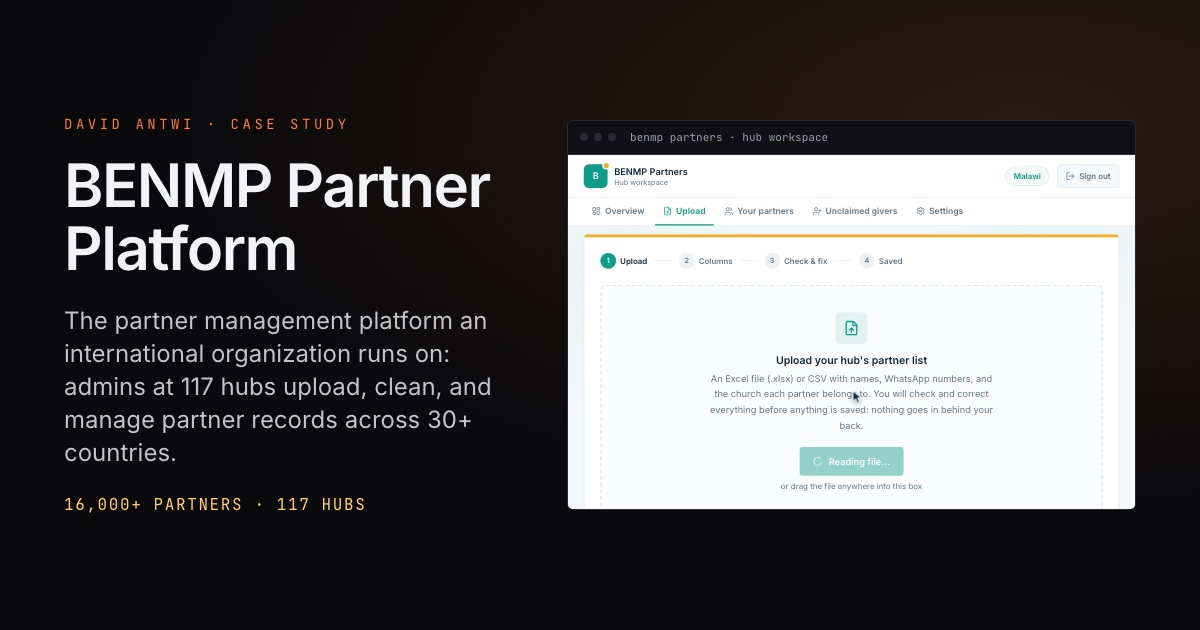
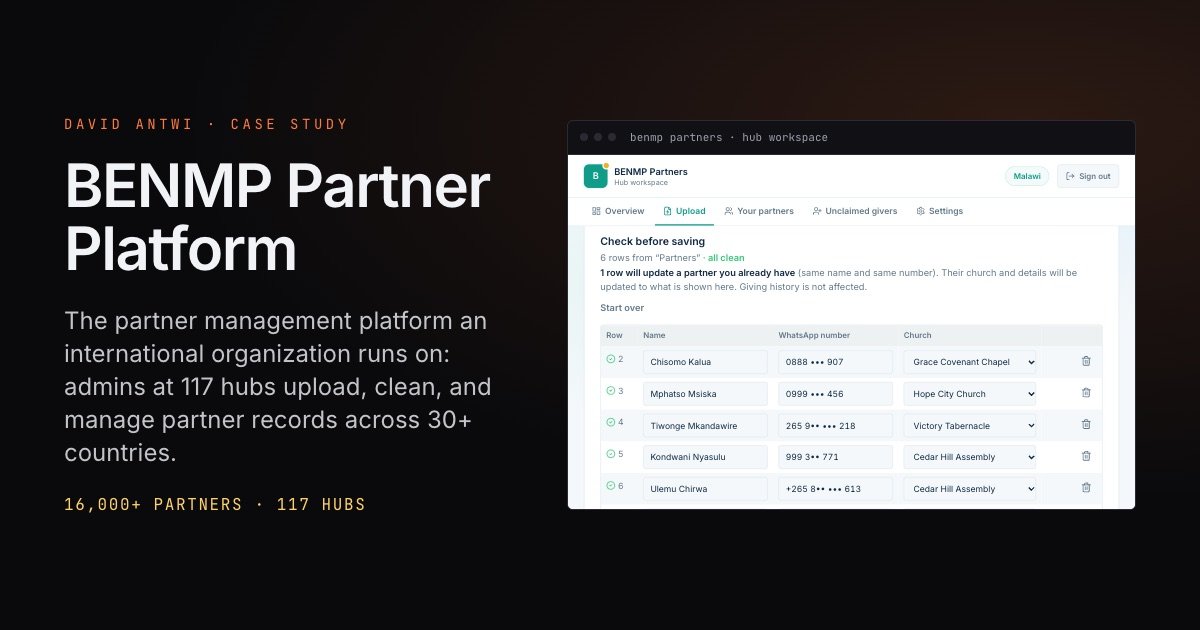
Reorder Selected work; YMAU story on the egress fix; drop BENMP code link

diff --git a/src/data/cases.js b/src/data/cases.js
@@ -6,7 +6,7 @@
 export const cases = {
   "benmp-partner-platform": {
     oneLiner: "The partner management platform an international organization runs on: admins at 117 hubs upload, clean, and manage partner records across 30+ countries.",
-    scope: "Software Engineer (part-time) · Jul 2026 to now",
+    scope: "Software Engineer (part-time volunteer) · Jul 2026 to now",
     problem:
       "BENMP's partners span 30+ countries, but their records lived in spreadsheets kept by hub leaders, with inconsistent names, phone formats, and church lists. The office could not reliably tell who had given, reach partners, or trust the legacy data.",
     built: [
@@ -197,47 +197,49 @@ export const cases = {
   },
 
   "ymau-registration-desk": {
-    oneLiner: "Conference site, Stripe registration, and a staff review desk for Yale Model African Union's sixth conference in Addis Ababa.",
+    oneLiner: "Conference site, Stripe registration, and a staff review desk for Yale Model African Union's sixth conference in Addis Ababa, used by 6,000+ delegates.",
     scope: "Lead Developer · Aug 2026 to now",
     problem:
-      "YMAU VI takes applications from thousands of young delegates, with fees, financial aid, documents, and a cap on paid places. The Secretariat needed one system to register and charge delegates, review aid fairly, and never double-sell a place or mark someone paid by mistake.",
+      "YMAU VI takes applications from thousands of young delegates across Africa, with fees, financial aid, documents, and delegations that pay as a group. The Secretariat needed one system to register and charge delegates, review aid fairly, and never mark someone paid by mistake.",
     built: [
       "A rebuilt yalemodelau.org (with French and Amharic pages) and a seven-step applicant portal with autosave, document uploads, and email sign-in links.",
-      "Stripe Checkout for single and whole-delegation payments, with webhook reconciliation, idempotency keys, refund and dispute flags, and a guard that turns payments off if Stripe's mode and the database disagree.",
-      "A Secretariat desk with three roles, an audit log, and financial aid review where an officer sees other reviewers' scores only after saving their own, so nobody anchors on someone else's number.",
-      "Row-level security on every table, and database traffic cuts when free-tier limits started blocking uploads.",
+      "Stripe Checkout for single and whole-delegation payments, with webhook reconciliation, refund and dispute flags, PDF visa letters, and a guard that turns payments off if Stripe's mode and the database disagree.",
+      "A Secretariat desk with roles, an audit log, and blind financial aid review: an officer sees other reviewers' scores only after saving their own, so nobody anchors on someone else's number.",
+      "Row-level security on every table, and CI/CD that gives every pull request its own preview deploy.",
     ],
     hardPart:
-      "Selling a capped number of places correctly across serverless instances, when one delegate can pay for a whole group and Stripe responses can get lost. Every payment, submission and aid write takes one transaction-scoped Postgres row lock first. A group checkout reserves all its places at once or fails as a whole, and a checkout only expires when Stripe confirms it, never on the app's own clock. I tested it by running the real migration in an in-memory Postgres, with two people racing for the last place and duplicate or out-of-order webhooks.",
+      "Weeks before the financial aid deadline, document uploads started failing: the database had used 13.7 GB of a 5.5 GB monthly traffic allowance. I traced it to three causes. Every new connection downloaded the database's type list (317,000 connections), every desk page load pulled about 5 MB, and dashboards polled every 30 seconds. I turned off the type download, made each server reuse one desk snapshot for as long as a cheap one-row change check says nothing has moved (capped at 5 minutes), and limited polling to the moments a payment is pending. An edit from another connection still shows up in about 2 seconds.",
     results: [
       { value: "6,000+", label: "delegates signed up for YMAU VI" },
       { value: "171", label: "delegations" },
+      { value: "1,324", label: "financial aid applications in the review desk" },
       { value: "3", label: "languages on the site" },
     ],
     decisions: [
-      "One transaction-scoped Postgres row lock guards capacity instead of counters checked in app code, so concurrent checkouts can't oversell a place.",
-      "A checkout expires only when Stripe confirms it, never on the app's own clock, so a slow payment can't lose its reserved place.",
-      "Payments switch off automatically if Stripe's test or live mode disagrees with the database, so test charges can never mark a real delegate paid.",
+      "The desk reuses one snapshot until a one-row change check says something moved, instead of reloading everything on every view or polling on a timer.",
+      "Payments switch off automatically if Stripe's test or live mode disagrees with the database, so a test charge can never mark a real delegate paid.",
+      "Reviewers score aid blind, seeing others' scores only after saving their own, so the first number doesn't set the rest.",
     ],
     arch: {
       nodes: [
         { id: "auth", label: "Email sign-in", tech: "Auth.js + Resend" },
         { id: "portal", label: "Applicant portal", tech: "Next.js", mine: true },
         { id: "stripe", label: "Checkout + webhooks", tech: "Stripe", mine: true },
-        { id: "db", label: "Database + capacity lock", tech: "Postgres, Drizzle", mine: true },
+        { id: "db", label: "Database", tech: "Postgres + RLS", mine: true },
         { id: "storage", label: "Documents", tech: "Supabase Storage" },
-        { id: "desk", label: "Secretariat desk", tech: "roles, aid review", mine: true },
+        { id: "desk", label: "Secretariat desk", tech: "snapshot, aid review", mine: true },
       ],
       edges: [
         { from: "auth", to: "portal", label: "sign in" },
-        { from: "portal", to: "stripe", label: "reserve, pay" },
+        { from: "portal", to: "stripe", label: "pay" },
         { from: "portal", to: "storage", label: "uploads" },
         { from: "stripe", to: "db", label: "reconcile" },
         { from: "desk", to: "db", label: "decisions" },
       ],
-      caption: "Invariant: a paid place exists only after Stripe confirms it, and only one writer can hold the capacity lock at a time.",
+      caption: "Invariant: a fee is marked paid only after a signed Stripe event, and payments stop if Stripe's mode and the database disagree.",
     },
   },
+
 
   intentionality: {
     oneLiner: "A productivity app for students that turns coursework into quests, with streaks, focus sessions, friends, and an AI planner.",

diff --git a/src/data/profile.js b/src/data/profile.js
@@ -182,7 +182,7 @@ export const projects = [
     year: 2026,
     cover: { replica: "OfficeHours", note: "The hosted app is only switched on for demos, so this copy plays example lessons through the same interface.", scene: "board", host: "better office hours · voice session" },
     case: cases["better-office-hours"],
-    featured: 4,
+    featured: 6,
     category: "ai",
     award: "1st place · YaleAI x SpaceXAI Cursor Build Challenge",
     description:
@@ -220,7 +220,7 @@ export const projects = [
     year: 2026,
     cover: { replica: "CloudAgent", note: "The real app sits behind a login and makes paid model calls, so this copy plays example tasks through the same interface.", scene: "agent", host: "cloud-coding-agent" },
     case: cases["cloud-coding-agent"],
-    featured: 2,
+    featured: 7,
     category: "ai",
     description:
       "A coding agent in a cloud sandbox that never grades its own homework. It writes a definition of done, builds, then a second agent with fresh context and read-only access tests the running app and shows evidence for every check.",
@@ -236,7 +236,7 @@ export const projects = [
     year: 2026,
     cover: { replica: "PartnerImport", note: "The real platform holds 16,000+ people's records and phone numbers, so this copy of its interface runs on sample data.", scene: "hubs", host: "benmp partners · hub workspace" },
     case: cases["benmp-partner-platform"],
-    featured: 1,
+    featured: 4,
     category: "product",
     metric: "16,000+ partners · 117 hubs",
     description:
@@ -246,7 +246,6 @@ export const projects = [
       "Bank and mobile money statement reconciliation, and a read-only AI assistant that only explains numbers the code computed.",
     ],
     tags: ["Next.js", "TypeScript", "Supabase", "PostgreSQL"],
-    code: "https://github.com/Alienware2000/benmp-prm",
   },
   {
     title: "Mars Rover Autonomy",
@@ -254,7 +253,7 @@ export const projects = [
     year: 2026,
     cover: { video: "/videos/rover/sim-lab.mp4", img: "/videos/rover/sim-lab.jpg", alt: "Rover Sim Lab replaying a full simulated drive: the planner map fills in as the rover explores, beside the synced 3D view and telemetry", host: "rover sim lab · across the yard (simulation)", note: "A full simulated drive in Rover Sim Lab, which I built: the planner's map fills in as the rover explores, next to the synced 3D view and telemetry. Six minutes of driving at 12x speed." },
     case: cases["mars-rover-autonomy"],
-    featured: 5,
+    featured: 1,
     category: "robotics",
     metric: "URC 2027 · Autonomy Lead",
     description:
@@ -296,7 +295,7 @@ export const projects = [
     year: 2026,
     cover: { replica: "RegistrationDesk", note: "The real desk holds delegates' personal data, so this copy of it runs on sample data.", img: "/work/ymau.jpg", alt: "Yale Model African Union VI homepage", host: "secretariat desk · yalemodelau.org" },
     case: cases["ymau-registration-desk"],
-    featured: 7,
+    featured: 5,
     category: "product",
     description:
       "Conference site, Stripe registration, and a blind-review desk for delegate applications and financial aid. 6,000+ delegates and 171 delegations signed up for YMAU VI so far.",
@@ -310,7 +309,7 @@ export const projects = [
     year: 2026,
     cover: { video: "/videos/drone/squad-pillars.mp4", img: "/videos/drone/squad-pillars.jpg", alt: "Four simulated Crazyflie drones flying past a field of pillars", host: "sim lab · 4 drones through pillars (simulation)" },
     case: cases["drone-swarm"],
-    featured: 6,
+    featured: 2,
     category: "robotics",
     metric: "O'Hern Lab · Yale",
     description:

diff --git a/src/replicas/RegistrationDesk.jsx b/src/replicas/RegistrationDesk.jsx
@@ -965,40 +965,38 @@ function AuditTicker({ entry, fresh, children, onOpen, label = "Audit log" }) {
 
 /* ---------- cover: a scripted loop across three desk pages ---------- */
 
-const COVER_STEPS = 28; // 500ms each
+const COVER_STEPS = 24; // 500ms each
 
 function Cover({ playing }) {
-  const [t, setT] = useState(() => (reduced() ? 16 : 0));
+  const [t, setT] = useState(() => (reduced() ? 8 : 0));
   useEffect(() => {
     if (!playing || reduced()) return;
     const id = setInterval(() => setT((x) => (x + 1) % COVER_STEPS), 500);
     return () => clearInterval(id);
   }, [playing]);
 
-  const page = t < 9 ? "capacity" : t < 19 ? "delegates" : "aid";
+  // A delegation pays three fees in one checkout, then an officer scores an aid application blind
+  const page = t < 10 ? "delegates" : "aid";
   const s = {
-    reserved: t >= 3, paid: t >= 13 && t < 19 ? true : t >= 19, flash: t >= 13 && t <= 15,
+    reserved: t >= 3, paid: t >= 7, flash: t >= 7 && t <= 9,
     fees: {}, undo: {}, audit: [], t, open: null,
-    hover: page === "delegates" && t >= 10 && t < 13 ? "d1" : null,
-    scores: page === "aid" ? Object.fromEntries(RUBRIC.slice(0, Math.max(0, Math.min(4, t - 19))).map((c) => [c.key, SCRIPTED[c.key]])) : {},
-    saved: t >= 24,
+    hover: page === "delegates" && t >= 1 && t < 4 ? "d1" : null,
+    scores: page === "aid" ? Object.fromEntries(RUBRIC.slice(0, Math.max(0, Math.min(4, t - 11))).map((c) => [c.key, SCRIPTED[c.key]])) : {},
+    saved: t >= 16,
   };
-  if (page === "capacity") s.paid = false;
   const rows = ["d1", "d2", "d3", "d4", "d5", "d6"].map((id) => rowOf(DELEGATES.find((d) => d.id === id), s));
 
   let entry = SEED_AUDIT[0];
   let fresh = false;
   let label = "Audit log";
-  if (t >= 3 && t < 12) { entry = { who: PAYER, what: "capacity · checkout reserved · 3 places held for 35 min" }; fresh = t < 9; }
-  if (t === 12) { entry = { who: "", what: "checkout.session.completed · signature verified · reconciling 3 fees" }; fresh = true; label = "Stripe webhook"; }
-  if (t >= 13 && t < 19) { entry = { who: "stripe", what: "capacity · checkout paid · 3 registrations complete" }; fresh = true; }
-  if (t >= 19) { entry = { who: "", what: t >= 24 ? "your score is saved, so the other reviewer’s score now shows" : "the other reviewer’s score stays hidden until yours is saved" }; fresh = true; label = "Blind review"; }
+  if (t >= 3 && t < 6) { entry = { who: PAYER, what: "checkout started · one delegation paying 3 fees" }; fresh = true; }
+  if (t === 6) { entry = { who: "", what: "checkout.session.completed · signature verified · reconciling 3 fees" }; fresh = true; label = "Stripe webhook"; }
+  if (t >= 7 && t < 10) { entry = { who: "stripe", what: "checkout paid · 3 registrations complete" }; fresh = true; }
 
   return (
     <div className="grid h-full grid-cols-[156px_1fr]">
       <Sidebar page={page} compact aidCount="296" />
       <main className="relative min-w-0 overflow-hidden px-[18px] pt-[14px]">
-        {page === "capacity" && <CapacityPage s={s} compact />}
         {page === "delegates" && <DelegatesPage rows={rows} s={s} compact />}
         {page === "aid" && <AidReviewPage s={s} compact />}
         {page !== "aid" && <AuditTicker entry={entry} fresh={fresh} label={label} />}
